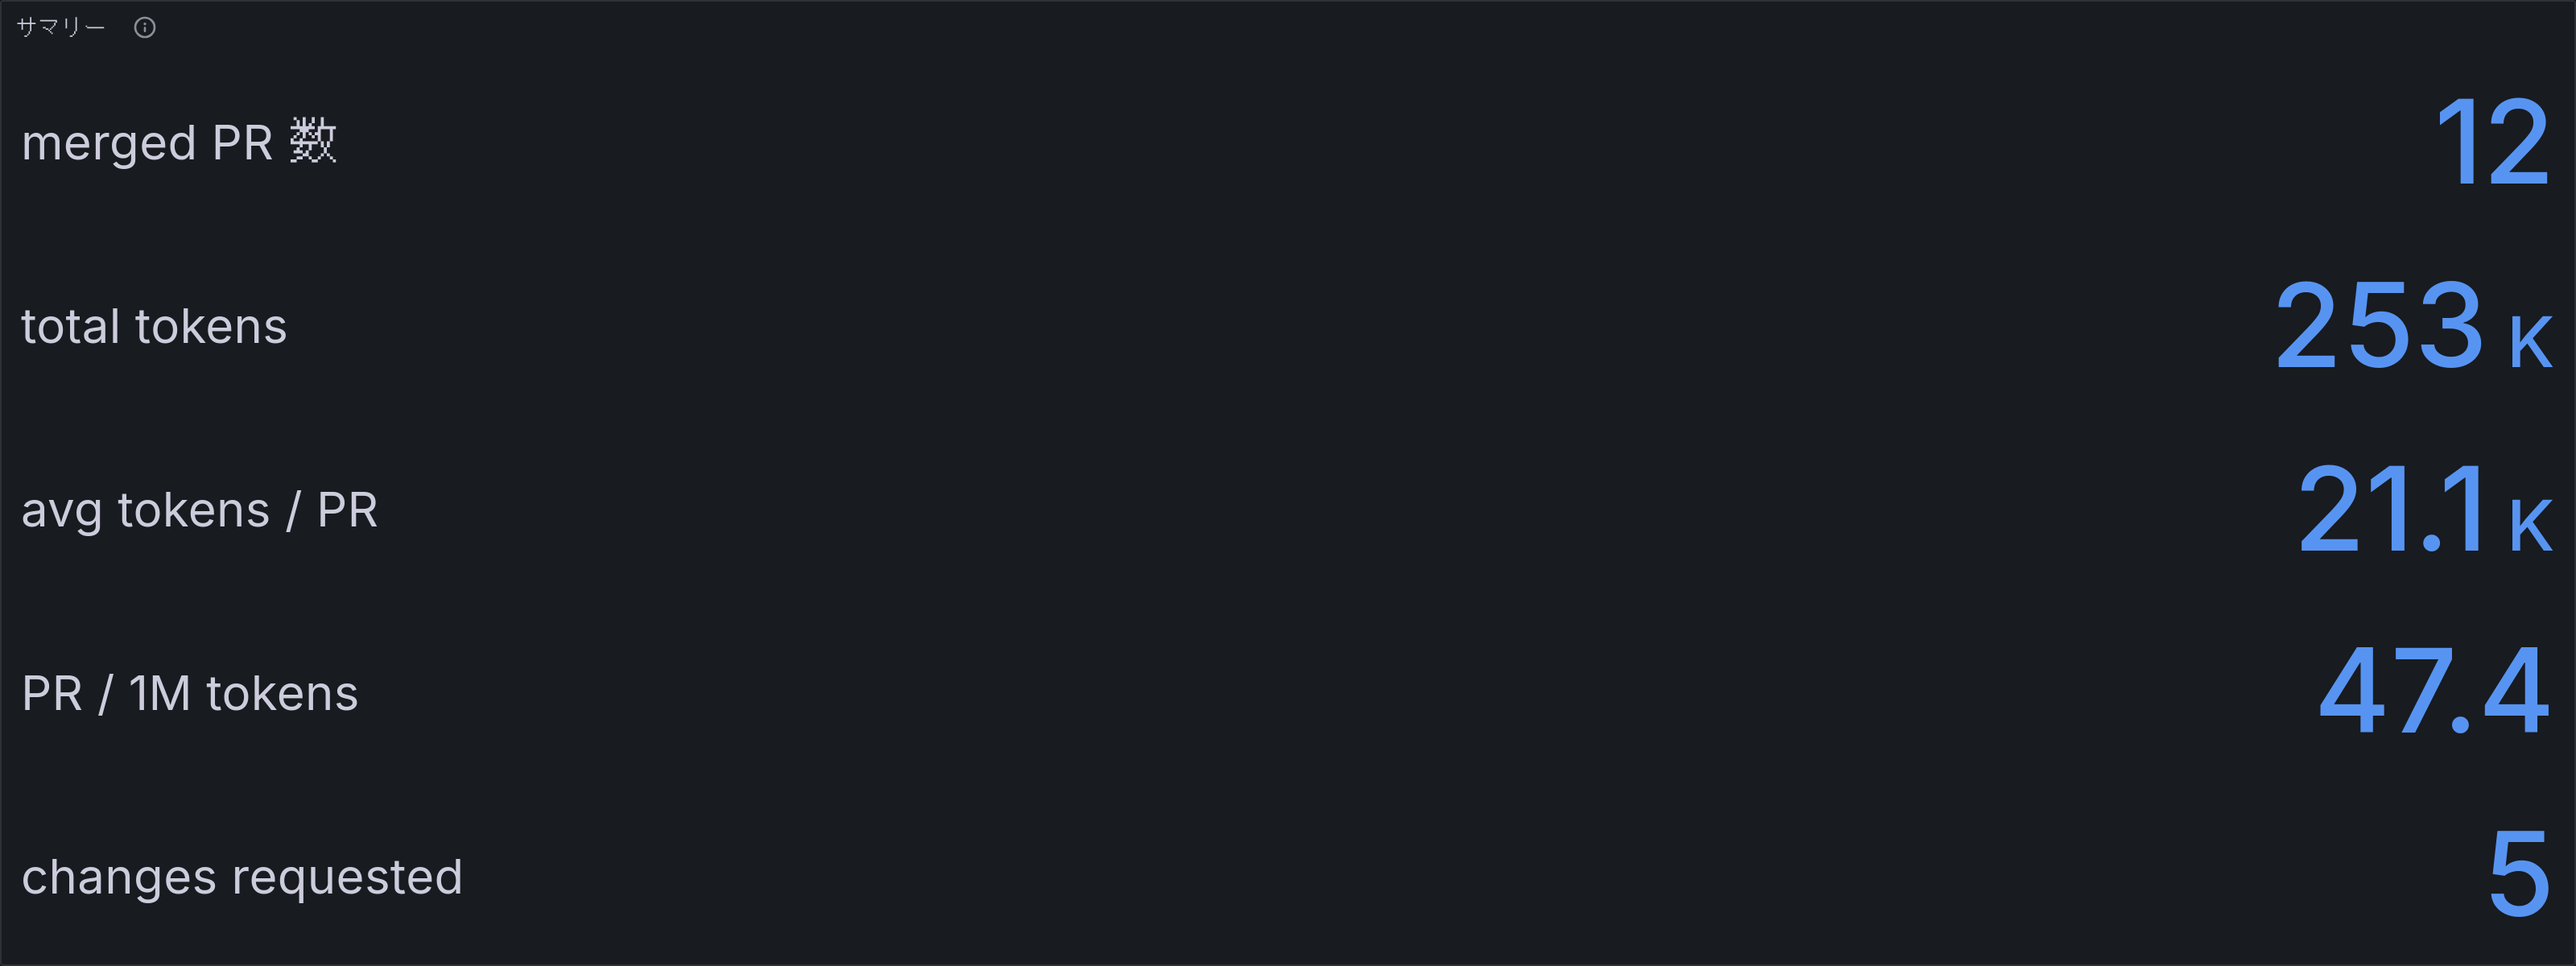
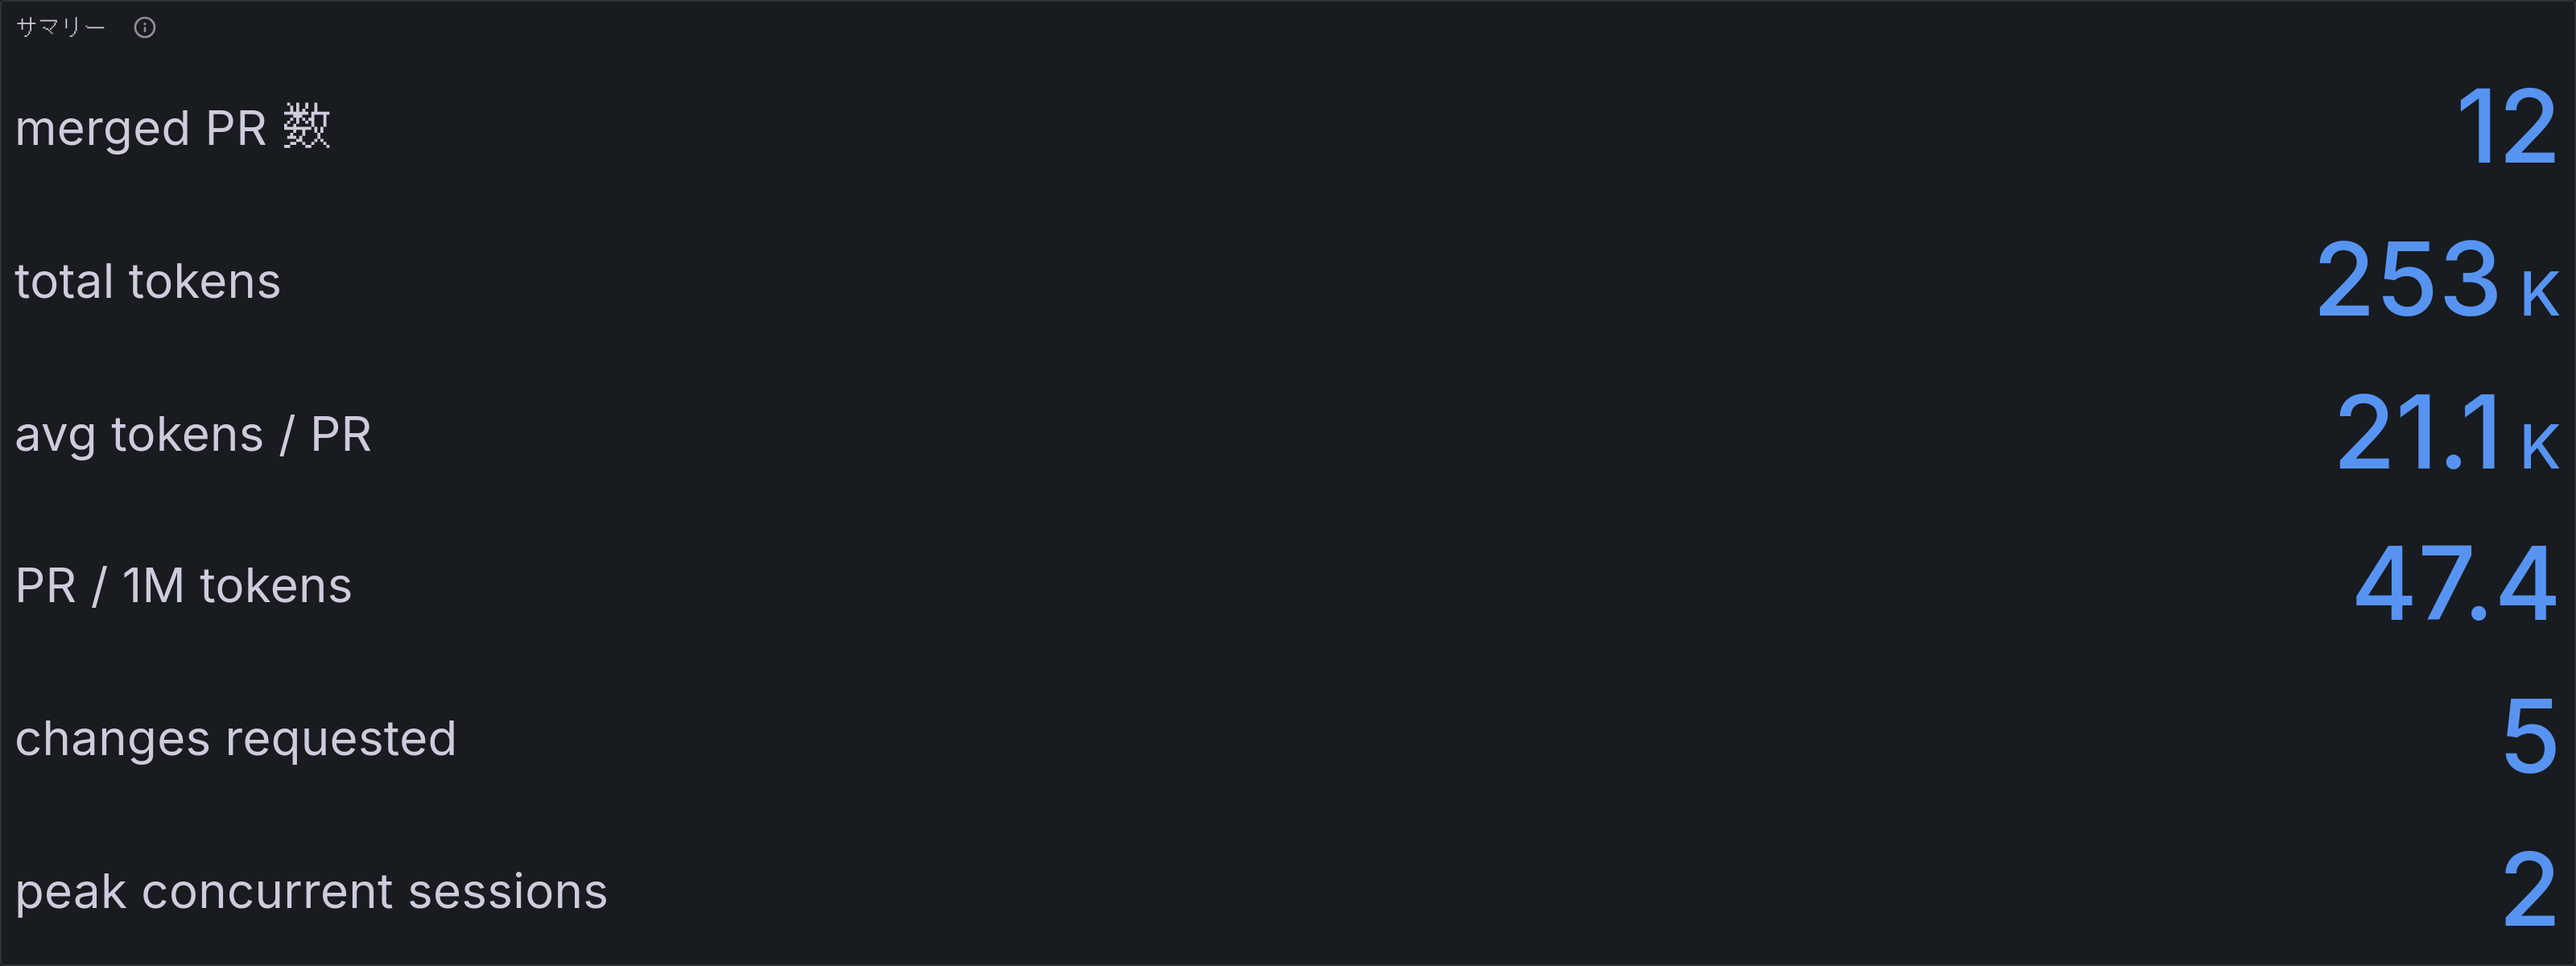
Show session concurrency as time series metric

diff --git a/internal/syncdb/schema.go b/internal/syncdb/schema.go
@@ -2,6 +2,9 @@ package syncdb
 
 const createTablesSQL = `
 DROP VIEW IF EXISTS pr_metrics;
+DROP VIEW IF EXISTS session_concurrency_weekly;
+DROP VIEW IF EXISTS session_concurrency_daily;
+DROP VIEW IF EXISTS session_intervals;
 DROP TABLE IF EXISTS permission_events;
 DROP TABLE IF EXISTS transcript_stats;
 DROP TABLE IF EXISTS sessions;
@@ -41,6 +44,49 @@ CREATE TABLE transcript_stats (
 CREATE INDEX idx_sessions_pr_url ON sessions(pr_url);
 CREATE INDEX idx_sessions_repo ON sessions(repo);
 
+CREATE VIEW session_intervals AS
+SELECT
+    s.session_id,
+    s.timestamp AS started_at,
+    s.ended_at,
+    s.repo,
+    s.branch,
+    s.pr_url,
+    s.task_type
+FROM sessions s
+LEFT JOIN transcript_stats ts ON s.session_id = ts.session_id
+WHERE s.is_subagent = 0
+  AND COALESCE(ts.is_ghost, 0) = 0
+  AND s.repo NOT IN ('ishii1648/dotfiles')
+  AND s.timestamp != ''
+  AND s.ended_at != '';
+
+CREATE VIEW session_concurrency_daily AS
+SELECT
+    date(anchor.started_at) AS day,
+    ROUND(AVG((
+        SELECT COUNT(*)
+        FROM session_intervals active
+        WHERE datetime(active.started_at) <= datetime(anchor.started_at)
+          AND datetime(active.ended_at) > datetime(anchor.started_at)
+    )), 2) AS avg_concurrent_sessions,
+    MAX((
+        SELECT COUNT(*)
+        FROM session_intervals active
+        WHERE datetime(active.started_at) <= datetime(anchor.started_at)
+          AND datetime(active.ended_at) > datetime(anchor.started_at)
+    )) AS peak_concurrent_sessions
+FROM session_intervals anchor
+GROUP BY date(anchor.started_at);
+
+CREATE VIEW session_concurrency_weekly AS
+SELECT
+    date(day, 'weekday 0', '-6 days') AS week_start,
+    ROUND(AVG(avg_concurrent_sessions), 2) AS avg_concurrent_sessions,
+    MAX(peak_concurrent_sessions) AS peak_concurrent_sessions
+FROM session_concurrency_daily
+GROUP BY date(day, 'weekday 0', '-6 days');
+
 CREATE VIEW pr_metrics AS
 SELECT
     pm.*,
@@ -67,21 +113,6 @@ FROM (
         COALESCE(SUM(ts.output_tokens), 0) AS output_tokens,
         COALESCE(SUM(ts.cache_write_tokens), 0) AS cache_write_tokens,
         COALESCE(SUM(ts.cache_read_tokens), 0) AS cache_read_tokens,
-        COALESCE(MAX((
-            SELECT COUNT(*)
-            FROM sessions sx
-            LEFT JOIN transcript_stats tsx ON sx.session_id = tsx.session_id
-            WHERE sx.pr_url = s.pr_url
-              AND sx.pr_url != ''
-              AND sx.is_subagent = 0
-              AND sx.is_merged = 1
-              AND COALESCE(tsx.is_ghost, 0) = 0
-              AND sx.repo NOT IN ('ishii1648/dotfiles')
-              AND sx.ended_at != ''
-              AND s.timestamp != ''
-              AND datetime(sx.timestamp) <= datetime(s.timestamp)
-              AND datetime(sx.ended_at) > datetime(s.timestamp)
-        )), 0) AS peak_parallel_sessions,
         MAX(s.review_comments) AS review_comments,
         MAX(s.changes_requested) AS changes_requested
     FROM sessions s

diff --git a/internal/syncdb/syncdb_test.go b/internal/syncdb/syncdb_test.go
@@ -100,14 +100,13 @@ func TestRunWithPaths(t *testing.T) {
 	var prReviewComments int
 	var prChangesRequested int
 	var inputTokens, outputTokens, cacheWriteTokens, cacheReadTokens, totalTokens int64
-	var peakParallelSessions int
 	var tokensPerSession, tokensPerToolUse, prPerMillionTokens float64
 	db.QueryRow(`SELECT pr_url, task_type, session_count, review_comments, changes_requested,
-		input_tokens, output_tokens, cache_write_tokens, cache_read_tokens, total_tokens, peak_parallel_sessions,
+		input_tokens, output_tokens, cache_write_tokens, cache_read_tokens, total_tokens,
 		tokens_per_session, tokens_per_tool_use, pr_per_million_tokens
 		FROM pr_metrics`).Scan(
 		&prURL, &prTaskType, &sessCount, &prReviewComments, &prChangesRequested,
-		&inputTokens, &outputTokens, &cacheWriteTokens, &cacheReadTokens, &totalTokens, &peakParallelSessions,
+		&inputTokens, &outputTokens, &cacheWriteTokens, &cacheReadTokens, &totalTokens,
 		&tokensPerSession, &tokensPerToolUse, &prPerMillionTokens,
 	)
 	if prURL != "https://github.com/user/repo/pull/1" {
@@ -140,9 +139,6 @@ func TestRunWithPaths(t *testing.T) {
 	if totalTokens != 1650 {
 		t.Errorf("total_tokens: got %d, want 1650", totalTokens)
 	}
-	if peakParallelSessions != 2 {
-		t.Errorf("peak_parallel_sessions: got %d, want 2", peakParallelSessions)
-	}
 	if tokensPerSession != 825.0 {
 		t.Errorf("tokens_per_session: got %.1f, want 825.0", tokensPerSession)
 	}
@@ -151,6 +147,27 @@ func TestRunWithPaths(t *testing.T) {
 	}
 	if prPerMillionTokens != 606.06 {
 		t.Errorf("pr_per_million_tokens: got %.2f, want 606.06", prPerMillionTokens)
+	}
+
+	var concurrencyRows int
+	db.QueryRow("SELECT COUNT(*) FROM session_concurrency_daily").Scan(&concurrencyRows)
+	if concurrencyRows != 1 {
+		t.Errorf("session_concurrency_daily count: got %d, want 1", concurrencyRows)
+	}
+	var avgConcurrent float64
+	var peakConcurrent int
+	db.QueryRow("SELECT avg_concurrent_sessions, peak_concurrent_sessions FROM session_concurrency_daily WHERE day = '2026-03-01'").Scan(&avgConcurrent, &peakConcurrent)
+	if avgConcurrent != 1.5 {
+		t.Errorf("avg_concurrent_sessions: got %.2f, want 1.50", avgConcurrent)
+	}
+	if peakConcurrent != 2 {
+		t.Errorf("peak_concurrent_sessions: got %d, want 2", peakConcurrent)
+	}
+
+	var weeklyPeak int
+	db.QueryRow("SELECT peak_concurrent_sessions FROM session_concurrency_weekly WHERE week_start = '2026-02-23'").Scan(&weeklyPeak)
+	if weeklyPeak != 2 {
+		t.Errorf("weekly peak_concurrent_sessions: got %d, want 2", weeklyPeak)
 	}
 }
 

diff --git a/README.md b/README.md
@@ -41,7 +41,8 @@ merged PR 数、total tokens、平均 tokens / PR、PR / 1M tokens、changes req
 | **mid_session_msgs** | ユーザーが途中で方向転換した回数。要件の曖昧さの代理指標 |
 | **ask_user_question** | Claude がユーザーに質問した回数。仕様不明瞭さの指標 |
 | **session_count** | PR に紐づくセッション数。作業の完了困難さの指標 |
-| **peak_parallel_sessions** | 同一 PR に紐づくトップレベル Claude Code セッションの最大同時実行数 |
+| **peak_concurrent_sessions** | 期間内のトップレベル Claude Code セッション最大同時実行数 |
+| **avg_concurrent_sessions** | 期間内のトップレベル Claude Code セッション平均同時実行数 |
 | **review_comments** | PR レビューコメント数。成果物品質の外部フィードバック |
 | **changes_requested** | CHANGES_REQUESTED レビュー回数 |
 | **task_type** | ブランチプレフィックス (feat/fix/docs/chore) から自動抽出 |

diff --git a/docs/usage.md b/docs/usage.md
@@ -25,7 +25,7 @@ Stop hook がセッション終了時に `hitl-metrics backfill` → `hitl-metri
 
 - **backfill Phase 1（URL 補完）**: `pr_urls` が空のセッションに対し、`gh pr list` で PR URL を取得
 - **backfill Phase 2（マージ判定）**: 未マージ PR の `is_merged` と `review_comments` を更新（1時間間隔）
-- **sync-db**: JSONL/transcript → SQLite 変換（`~/.claude/hitl-metrics.db` を生成）。PR 単位の `peak_parallel_sessions` も算出
+- **sync-db**: JSONL/transcript → SQLite 変換（`~/.claude/hitl-metrics.db` を生成）。日次・週次の `avg_concurrent_sessions` / `peak_concurrent_sessions` も算出
 
 cursor（`~/.claude/hitl-metrics-state.json`）により前回処理済み以降のエントリのみが走査されるため、高速に完了します。
 
